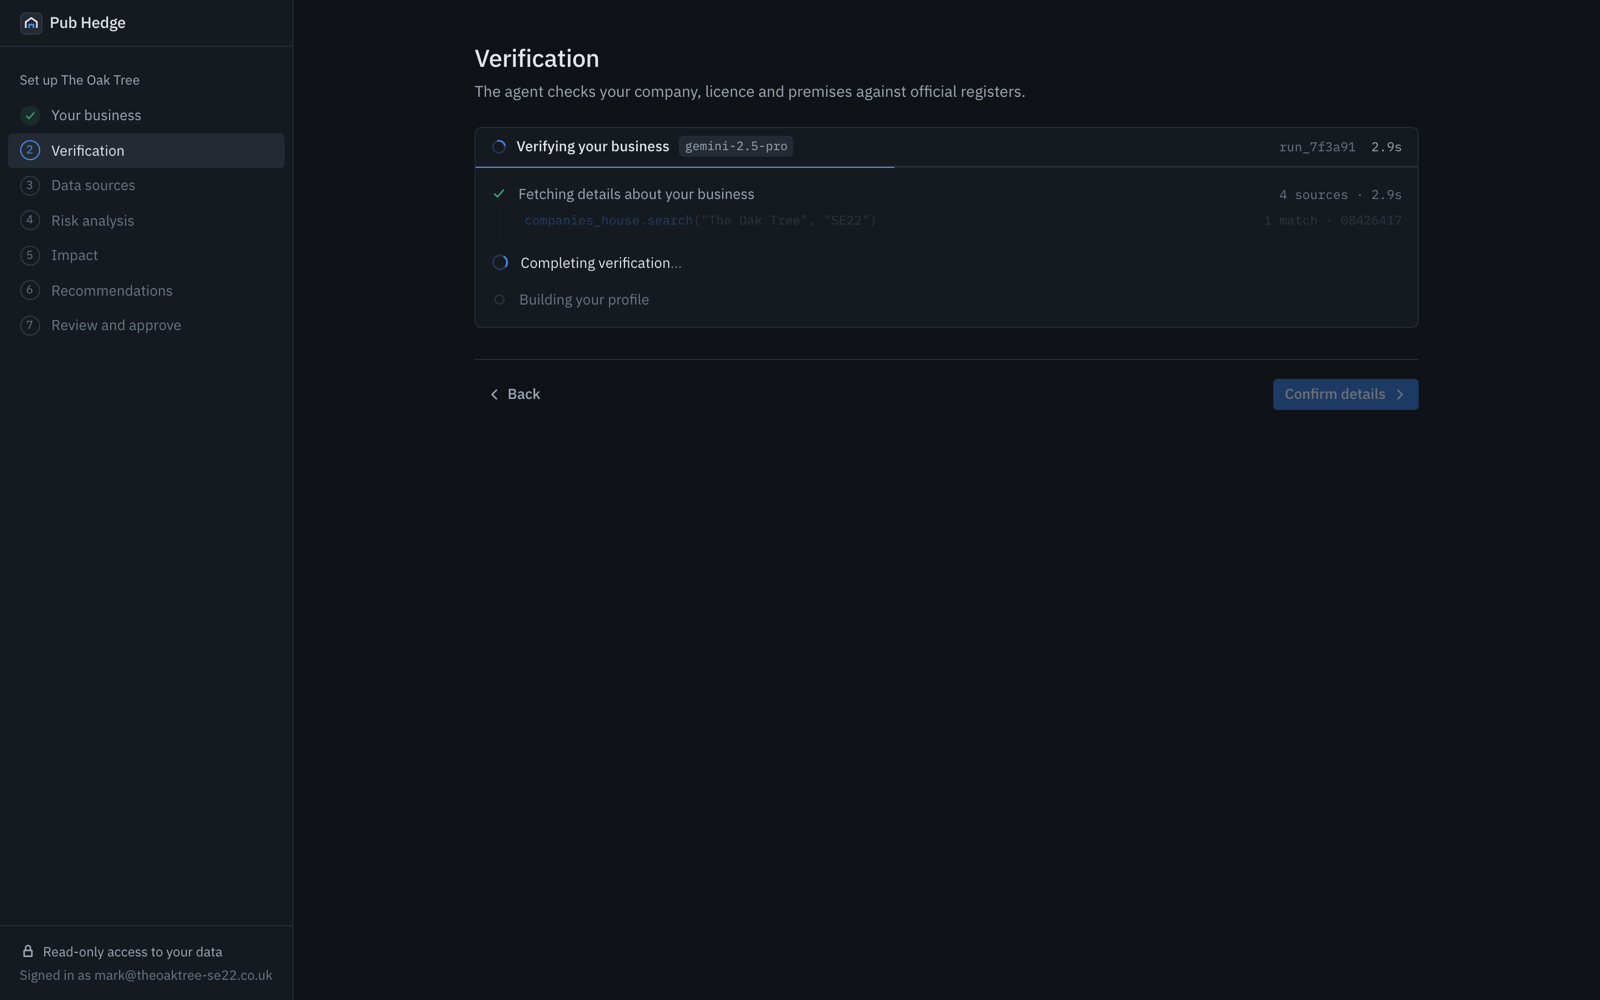
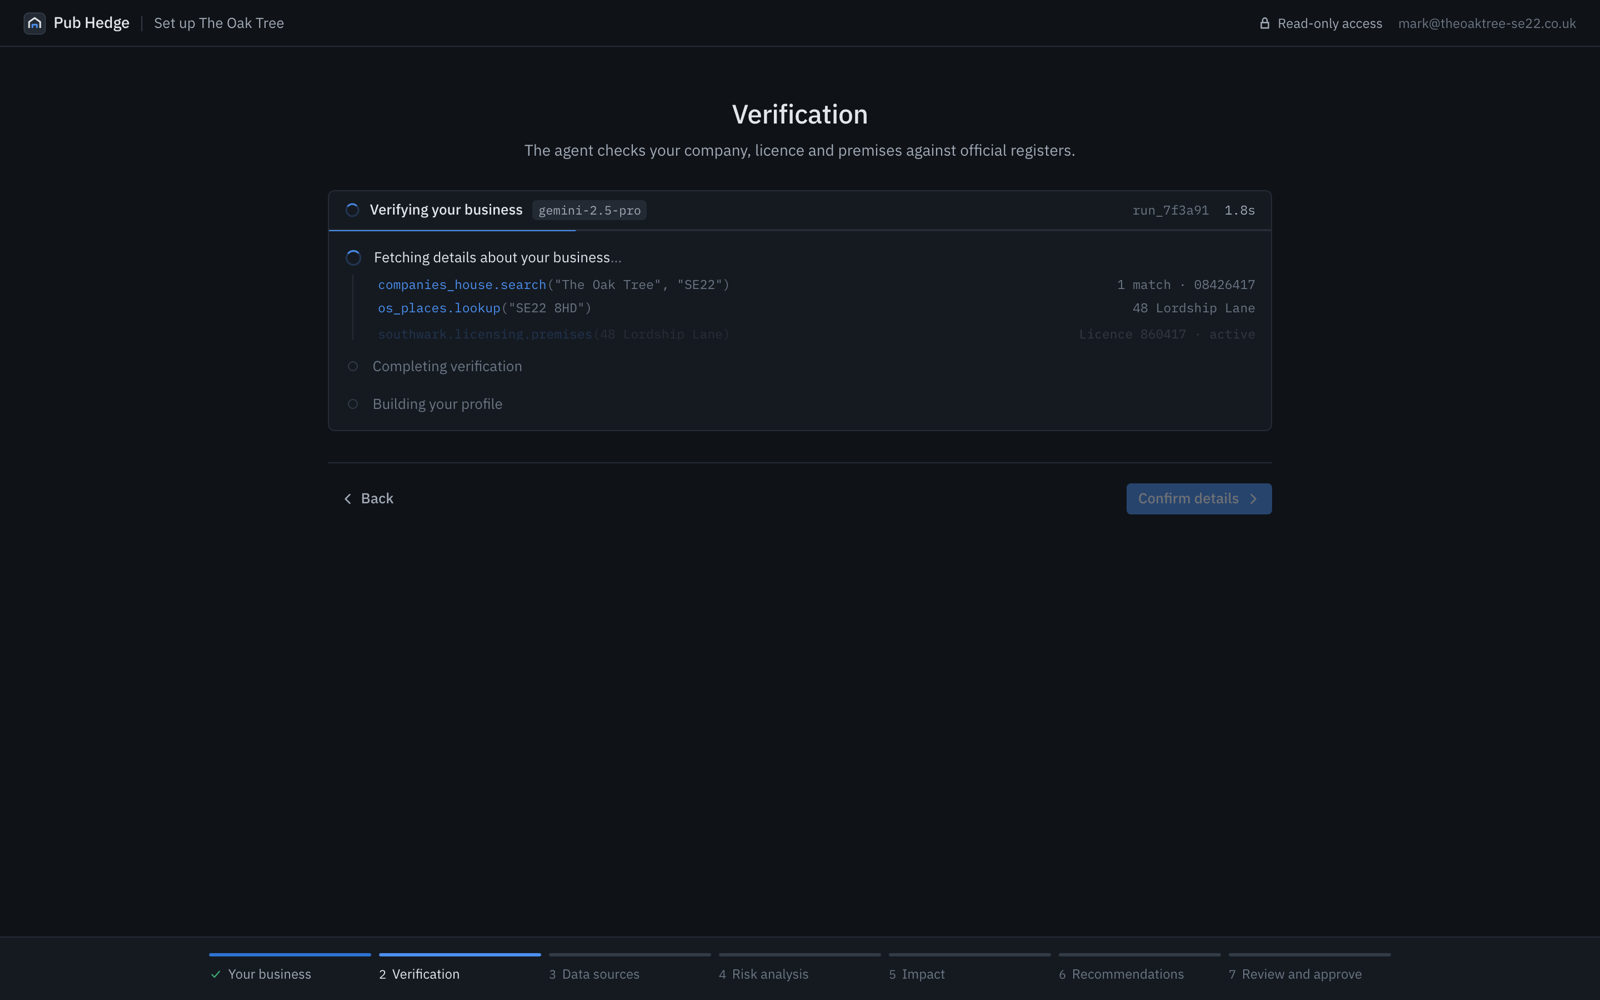
Move onboarding progress to a bottom tracker
Each step is now a single centred screen. Completed steps in the tracker stay clickable.

diff --git a/app/src/components/onboarding/Onboarding.tsx b/app/src/components/onboarding/Onboarding.tsx
@@ -49,47 +49,24 @@ export default function Onboarding() {
   ][step];
 
   return (
-    <div className="flex h-screen">
-      <aside className="flex w-[264px] shrink-0 flex-col border-r border-line bg-surface">
-        <div className="flex h-12 items-center border-b border-line px-5">
+    <div className="flex h-screen flex-col">
+      <header className="flex h-12 shrink-0 items-center justify-between border-b border-line px-6">
+        <div className="flex items-center gap-3">
           <Logo />
+          <span className="h-4 w-px bg-line-strong" />
+          <span className="text-[13px] text-fg-2">Set up {form.pubName.trim() || "your pub"}</span>
         </div>
-        <div className="px-5 pb-2 pt-6 text-[12px] text-fg-2">Set up {form.pubName.trim() || "your pub"}</div>
-        <ol className="px-2">
-          {STEPS.map((s, i) => {
-            const done = i < reached || (i === 6 && placed);
-            const active = i === step;
-            const reachable = i <= reached && !placed;
-            return (
-              <li key={s.title}>
-                <button
-                  onClick={() => reachable && setStep(i)}
-                  disabled={!reachable}
-                  className={cx(
-                    "flex h-9 w-full items-center gap-3 rounded px-3 text-left text-[13px] transition-colors",
-                    active ? "bg-surface-3 text-fg" : "text-fg-2",
-                    reachable && !active && "hover:bg-surface-2 hover:text-fg",
-                    !reachable && !active && "cursor-default text-fg-3"
-                  )}
-                >
-                  <StepDot index={i} done={done && !active} active={active} />
-                  {s.title}
-                </button>
-              </li>
-            );
-          })}
-        </ol>
-        <div className="mt-auto border-t border-line px-5 py-4 text-[12px] leading-5 text-fg-3">
-          <div className="flex items-center gap-2 text-fg-2">
-            <Icon name="lock" size={14} />
-            Read-only access to your data
-          </div>
-          <div className="mt-1">Signed in as {form.email}</div>
+        <div className="flex items-center gap-4 text-[12px] text-fg-3">
+          <span className="flex items-center gap-1.5 text-fg-2">
+            <Icon name="lock" size={13} />
+            Read-only access
+          </span>
+          <span>{form.email}</span>
         </div>
-      </aside>
+      </header>
 
-      <main className="flex-1 overflow-y-auto">
-        <div className="mx-auto max-w-[920px] px-10 py-10">
+      <main className="min-h-0 flex-1 overflow-y-auto">
+        <div className="mx-auto max-w-[920px] px-10 pb-10 pt-12">
           <AnimatePresence mode="wait">
             <motion.div
               key={step}
@@ -98,35 +75,58 @@ export default function Onboarding() {
               exit={{ opacity: 0 }}
               transition={{ duration: 0.18, ease: [0.16, 1, 0.3, 1] }}
             >
-              <header className="mb-6">
-                <h1 className="text-[22px] font-medium tracking-[-0.01em]">{STEPS[step].title}</h1>
-                <p className="mt-1 max-w-[640px] text-fg-2">{STEPS[step].description}</p>
-              </header>
+              <div className="mb-7 text-center">
+                <h1 className="text-[24px] font-medium tracking-[-0.01em]">{STEPS[step].title}</h1>
+                <p className="mx-auto mt-1.5 max-w-[600px] text-fg-2">{STEPS[step].description}</p>
+              </div>
               {body}
             </motion.div>
           </AnimatePresence>
         </div>
       </main>
-    </div>
-  );
-}
 
-function StepDot({ index, done, active }: { index: number; done: boolean; active: boolean }) {
-  if (done)
-    return (
-      <span className="flex h-[18px] w-[18px] items-center justify-center rounded-full bg-positive-wash text-positive">
-        <Icon name="check" size={12} />
-      </span>
-    );
-  return (
-    <span
-      className={cx(
-        "flex h-[18px] w-[18px] items-center justify-center rounded-full border font-mono text-[10.5px]",
-        active ? "border-accent text-accent" : "border-line-strong text-fg-3"
-      )}
-    >
-      {index + 1}
-    </span>
+      <nav aria-label="Setup progress" className="shrink-0 border-t border-line bg-surface">
+        <ol className="mx-auto flex h-16 max-w-[1120px] items-center gap-2 px-8">
+          {STEPS.map((s, i) => {
+            const done = i < reached || (i === 6 && placed);
+            const active = i === step;
+            const reachable = i <= reached && !placed;
+            return (
+              <li key={s.title} className="flex-1">
+                <button
+                  onClick={() => reachable && setStep(i)}
+                  disabled={!reachable}
+                  aria-current={active ? "step" : undefined}
+                  className={cx("group block w-full text-left", reachable ? "cursor-pointer" : "cursor-default")}
+                >
+                  <span className="block h-[3px] overflow-hidden rounded-full bg-line-strong">
+                    <motion.span
+                      className={cx("block h-full rounded-full", active ? "bg-accent" : "bg-accent-strong")}
+                      initial={false}
+                      animate={{ width: done || active ? "100%" : "0%" }}
+                      transition={{ duration: 0.4, ease: [0.16, 1, 0.3, 1] }}
+                    />
+                  </span>
+                  <span
+                    className={cx(
+                      "mt-2 flex items-center gap-1.5 truncate text-[12px] transition-colors",
+                      active ? "text-fg" : done ? "text-fg-2 group-hover:text-fg" : "text-fg-3"
+                    )}
+                  >
+                    {done && !active ? (
+                      <Icon name="check" size={12} className="shrink-0 text-positive" />
+                    ) : (
+                      <span className="font-mono text-[11px]">{i + 1}</span>
+                    )}
+                    {s.title}
+                  </span>
+                </button>
+              </li>
+            );
+          })}
+        </ol>
+      </nav>
+    </div>
   );
 }
 
